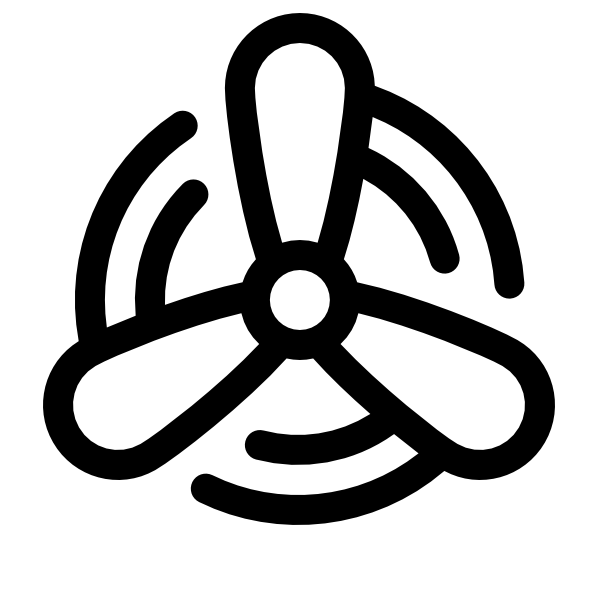
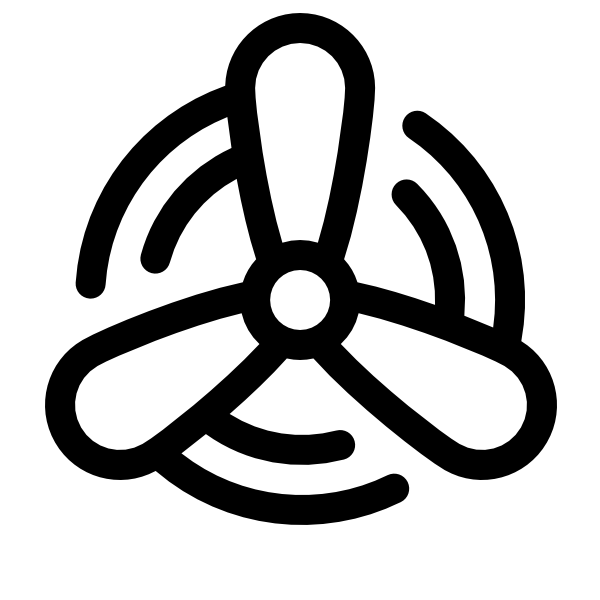
Minor updates
- changed direction of fan animation
- added placeholder text to index, control_panel and logout pages
- changed title of control_panel site
- made animated fan a link to the landing page
- moved size definition of the animated fan from **.ejs to style.css

diff --git a/src/public/style/style.css b/src/public/style/style.css
@@ -66,6 +66,8 @@ HEADER
 .rotate {
     animation: rotation 8s infinite linear;
     margin: 5px;
+    width: 68px;
+    height: 68px;
 }
 @keyframes rotation {
   from {
